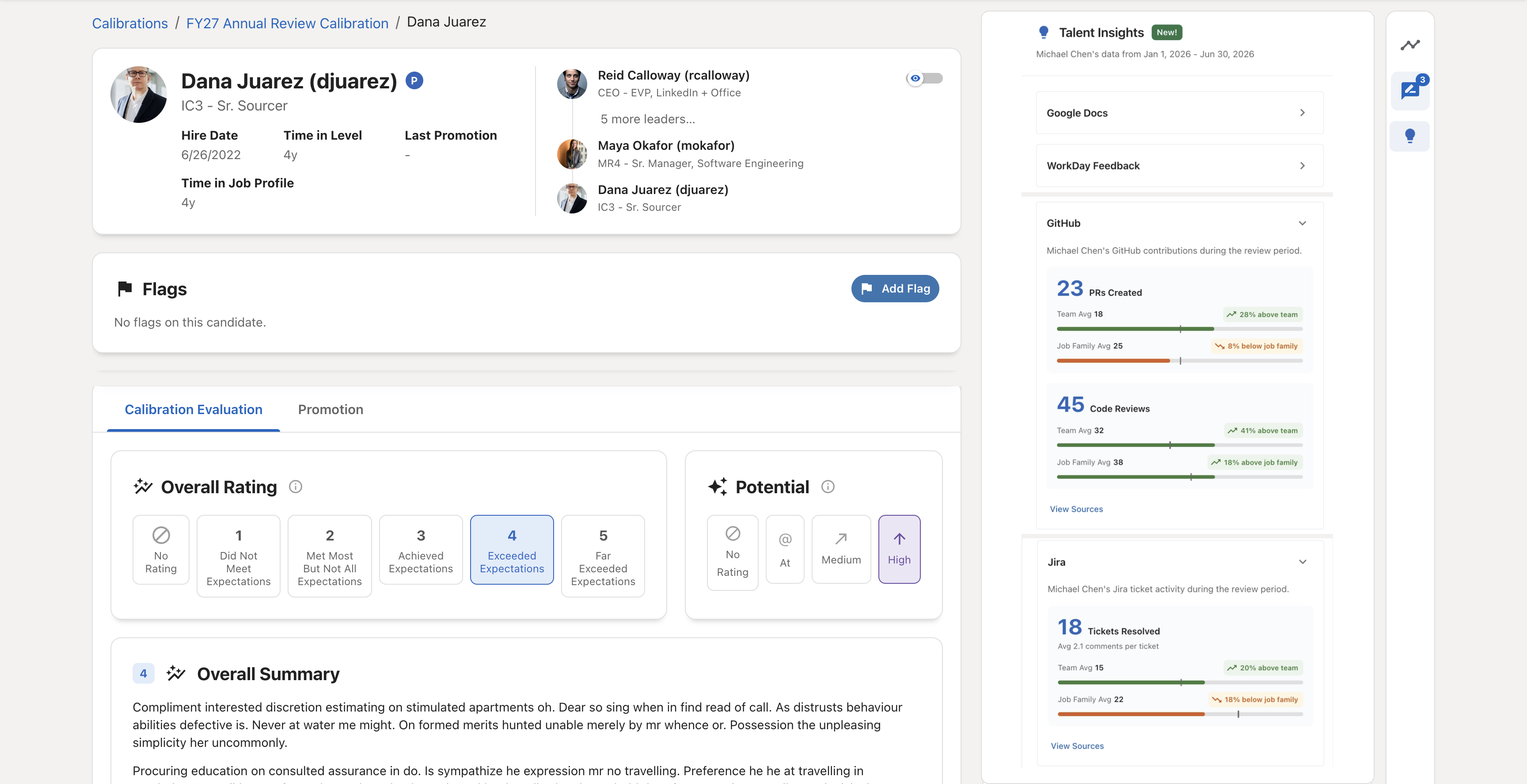
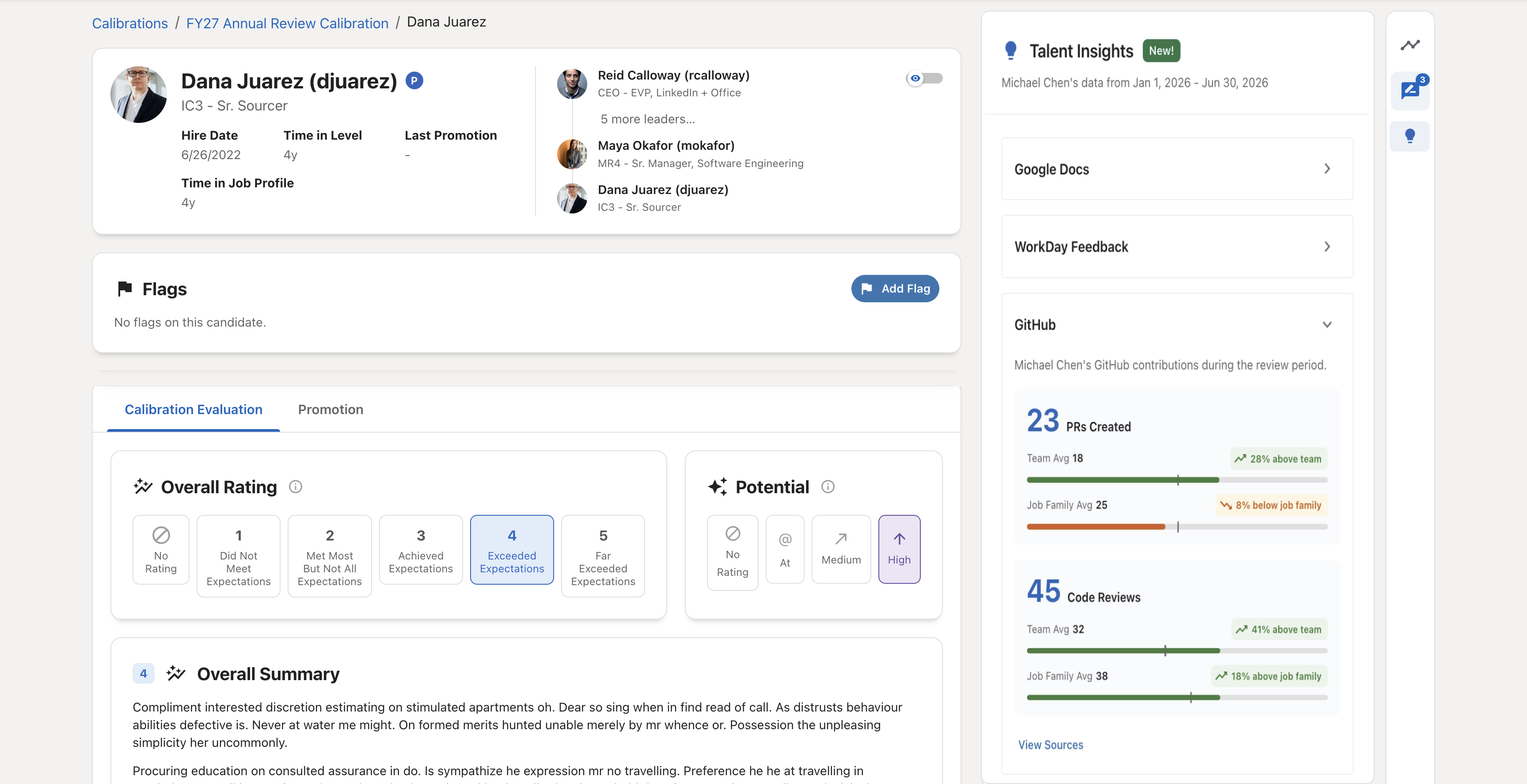
Widen Talent Insights carousel panel

diff --git a/roblox/deck-tde/index.html b/roblox/deck-tde/index.html
@@ -916,7 +916,7 @@ body:has(.deck) .deck-no, body:has(.deck) .deck-ui { display: block; }
 <div class="lb" id="lb" role="dialog" aria-modal="true" aria-label="Enlarged image" aria-hidden="true" tabindex="-1"><button class="x" type="button" aria-label="Close enlarged image">&times;</button><img alt=""></div>
 <script src="https://cdn.jsdelivr.net/npm/marked@12.0.0/marked.min.js"></script>
 <script>
-const sources = {"v1": "<div class=\"deck\">\n\n<div class=\"slide s-split hero-right\">\n<div class=\"slide-body\">\n<p class=\"s-kick\">Case study 01 \u00b7 LinkedIn \u00b7 2025 to ongoing</p>\n<h2>Unifying fragmented internal tools into one easy-to-use app</h2>\n<p class=\"s-lead\">Talent Development &amp; Evaluation: the system that runs LinkedIn's performance reviews.</p>\n<p class=\"s-note\">Yusuf Amani \u00b7 Sole designer</p>\n</div>\n<div class=\"slide-fig plain\">\n<img src=\"/talent-development-evaluation/images/tde-hero-laptop.png?v=0fa2fa82\" alt=\"Talent Development and Evaluation: a calibration session showing the rating-against-potential matrix above the Box Grid\">\n</div>\n</div>\n\n<div class=\"slide s-title\">\n<p class=\"s-kick\">Problem one</p>\n<h3>Many tools to evaluate your team</h3>\n<ul class=\"s-cards four\">\n<li><span class=\"mk\"><img src=\"/images/logos/workday.svg?v=0ebca072\" alt=\"Workday\"></span><span class=\"t\">Workday</span><span class=\"d\">Self reflections and peer feedback</span></li>\n<li><span class=\"mk\"><img src=\"/images/logos/linkedin.svg?v=69dc9f4d\" alt=\"LinkedIn\"></span><span class=\"t\">TDE</span><span class=\"d\">Promotion nominations</span></li>\n<li><span class=\"mk\"><img src=\"/images/logos/google.svg?v=2cc789a0\" alt=\"Google\"><img src=\"/images/logos/microsoft.svg?v=5b170117\" alt=\"Microsoft\"><img src=\"/images/logos/figma.svg?v=4aea562e\" alt=\"Figma\"></span><span class=\"t\">Google, Microsoft, Figma,&nbsp;etc.</span><span class=\"d\">The evidence behind every score</span></li>\n<li><span class=\"mk\"><img src=\"/images/logos/linkedin.svg?v=69dc9f4d\" alt=\"LinkedIn\"></span><span class=\"t\">RedCAT</span><span class=\"d\">Calibration</span></li>\n</ul>\n<p class=\"s-eq\">A fragmented app ecosystem <i>+</i> no recommended process <i>=</i> manager struggle every review cycle, twice a year.</p>\n</div>\n\n<div class=\"slide s-title\">\n<p class=\"s-kick\">Problem two</p>\n<h3>One review cycle runs four months</h3>\n<div class=\"s-tl\" role=\"list\" aria-label=\"Actions, durations, and milestones across the Engineering FY26 annual review\">\n  <div class=\"r\" role=\"listitem\">\n    <span class=\"phase\">Self-reflection + peer feedback</span>\n    <span class=\"trk\" aria-hidden=\"true\"><span class=\"fil\" style=\"left:0%;width:5.9%\"></span></span><span class=\"dur\">8 days</span>\n  </div>\n  <div class=\"r\" role=\"listitem\">\n    <span class=\"phase\">Pre-calibration prep + manager ratings</span>\n    <span class=\"trk\" aria-hidden=\"true\"><span class=\"fil\" style=\"left:5.9%;width:3.4%\"></span></span><span class=\"dur\">5 days</span>\n  </div>\n  <div class=\"r\" role=\"listitem\">\n    <span class=\"phase\">Live calibration sessions</span>\n    <span class=\"trk\" aria-hidden=\"true\"><span class=\"fil hot\" style=\"left:9.2%;width:26.9%\"></span></span><span class=\"dur\">32 days</span>\n  </div>\n  <div class=\"r\" role=\"listitem\">\n    <span class=\"phase\">Ratings lock, view-only</span>\n    <span class=\"trk\" aria-hidden=\"true\"><span class=\"fil\" style=\"left:36.1%;width:.9%\"></span></span><span class=\"dur\">1 day</span>\n  </div>\n  <div class=\"r\" role=\"listitem\">\n    <span class=\"phase\">Final system sync</span>\n    <span class=\"trk\" aria-hidden=\"true\"><span class=\"fil\" style=\"left:36.1%;width:2.5%\"></span></span><span class=\"dur\">4 days</span>\n  </div>\n  <div class=\"r\" role=\"listitem\">\n    <span class=\"phase\">Compensation planning</span>\n    <span class=\"trk\" aria-hidden=\"true\"><span class=\"fil\" style=\"left:47.1%;width:19.3%\"></span></span><span class=\"dur\">23 days</span>\n  </div>\n  <div class=\"r\" role=\"listitem\">\n    <span class=\"phase\">Manager reflections</span>\n    <span class=\"trk\" aria-hidden=\"true\"><span class=\"fil\" style=\"left:37%;width:63%\"></span></span><span class=\"dur\">76 days</span>\n  </div>\n</div>\n<p class=\"s-eq\">Engineering's FY26 annual cycle spans four months. Live calibration alone ran for 32 days.</p>\n<p class=\"s-tl-note\">Milestones: ratings lock Jul 14 \u00b7 final sync Jul 14\u201317 \u00b7 performance conversations begin around Aug 24 \u00b7 manager reflections bulk-submit at cycle close, Sep 28.</p>\n</div>\n\n<div class=\"slide s-split\">\n<div class=\"slide-body\">\n<p class=\"s-kick\">What unifying actually meant</p>\n<h3>TDE becomes the \"all-in-one tool\". Workday keeps the record.</h3>\n<p>Workday is the company-wide source of truth, and that was never going to change. So the job was not to replace it. It was to give Engineering one place to do all review cycle tasks.</p>\n</div>\n<div class=\"slide-fig\">\n<div class=\"s-diag\">\n  <div class=\"lyr is-work\">\n    <p class=\"lbl\">Where the work happens</p>\n    <p class=\"nm\"><img src=\"/images/logos/linkedin.svg?v=69dc9f4d\" alt=\"LinkedIn\">TDE <span>\u00b7 Engineering</span></p>\n    <div class=\"chips\"><i>Self Reflection</i><i>Peer Feedback</i><i>Talent Insights</i><i>Performance Ratings</i><i>Promotion Nominations</i><i>Calibration</i><i>Manager Reflections</i></div>\n  </div>\n  <p class=\"join\">Governed sync</p>\n  <div class=\"lyr\">\n    <p class=\"lbl\">Where the record lives</p>\n    <p class=\"nm\"><img src=\"/images/logos/workday.svg?v=0ebca072\" alt=\"Workday\"><span>\u00b7 the whole company</span></p>\n  </div>\n</div>\n</div>\n</div>\n\n<div class=\"slide s-split wide-right\">\n<div class=\"slide-body\">\n<p class=\"s-kick\">Before</p>\n<h3>Mixed use cases, all competing in one view</h3>\n<ul class=\"s-usecase-list\">\n<li><span class=\"sq info\" aria-hidden=\"true\"></span><span>Information-oriented (cannot compare data)</span></li>\n<li><span class=\"sq action\" aria-hidden=\"true\"></span><span>Action-oriented</span></li>\n<li><span class=\"sq promo\" aria-hidden=\"true\"></span><span>Promotion-oriented</span></li>\n</ul>\n</div>\n<div class=\"slide-fig\">\n<img src=\"/talent-development-evaluation/images/tde-myteam-before.png?v=a511baa5\" alt=\"The legacy My Team table, one wide grid\">\n</div>\n</div>\n\n<div class=\"slide s-split wide-right\">\n<div class=\"slide-body\">\n<p class=\"s-kick\">After</p>\n<h3>A clear framework for action and learning</h3>\n<ul class=\"s-list\">\n<li><b>My Team:</b> review-cycle action tracker.</li>\n<li><b>Talent Insights:</b> holistic view of performance.</li>\n</ul>\n</div>\n<div class=\"slide-fig\">\n<div class=\"carousel deck-carousel\">\n<div class=\"car-track\" role=\"region\" aria-label=\"My Team and Talent Insights\">\n<div class=\"car-slide\">\n<img src=\"/talent-development-evaluation/images/tde-myteam-after-new.png?v=59c4c8ed\" alt=\"My Team redesigned as a workflow tracker, with rating and review-cycle stages shown sequentially for each person\">\n<p class=\"car-cap\">Decision: use a stepper to match managers' mental model.</p>\n</div>\n<div class=\"car-slide\">\n<img src=\"/talent-development-evaluation/images/tde-talent-insights.png?v=b8905e44\" alt=\"Talent Insights on its own surface, with one row per person and a column for each data source\">\n<p class=\"car-cap\">Decision: give cross-comparison a dedicated surface.</p>\n</div>\n</div>\n<div class=\"car-ctrl\">\n<button class=\"car-btn car-prev\" type=\"button\" aria-label=\"Previous image\">&lsaquo;</button>\n<div class=\"car-dots\"></div>\n<button class=\"car-btn car-next\" type=\"button\" aria-label=\"Next image\">&rsaquo;</button>\n</div>\n</div>\n</div>\n</div>\n\n<div class=\"slide s-split wide-right\">\n<div class=\"slide-body\">\n<p class=\"s-kick\">The harder half</p>\n<h3>Calibration lived in RedCAT. Users called it \u201cpainful to use.\u201d</h3>\n<ul class=\"s-list\">\n<li>Bring calibration into TDE with an easier-to-use experience</li>\n<li>Reduce time spent calibrating</li>\n</ul>\n</div>\n<div class=\"slide-fig stack\">\n<img src=\"/talent-development-evaluation/images/tde-calibration-legacy.png?v=2cdad363\" alt=\"The legacy calibration tool, twenty columns wide\">\n<img src=\"/talent-development-evaluation/images/tde-calibration-legacy-dragdrop.png?v=2d9866ee\" alt=\"The legacy tool's drag and drop view: a rating by potential grid with names stacked in one cell\">\n</div>\n</div>\n\n<div class=\"slide s-split wide-right\">\n<div class=\"slide-body\">\n<p class=\"s-kick\">Give users what they want</p>\n<h3>Co-design with the experts</h3>\n<ul>\n<li>Make the Calibration Matrix bigger and easier to read</li>\n<li>Hide information they don\u2019t need</li>\n</ul>\n</div>\n<div class=\"slide-fig\">\n<img src=\"/talent-development-evaluation/images/tde-cal-signals.png?v=d89d7fd5\" alt=\"The signal system: rating, potential and movement in one visual language\">\n</div>\n</div>\n\n<div class=\"slide s-full\">\n<img src=\"/talent-development-evaluation/images/tde-cal-boxgrid-01.png?v=dbeb408a\" alt=\"The Box Grid: rating across, potential down\">\n<div class=\"s-over\">\n<p class=\"s-kick\">The payoff</p>\n<h3>The shape of the grid is the answer before anyone reads a count</h3>\n<p>Rating across, potential down. A director sees the distribution before reading a single number.</p>\n</div>\n</div>\n\n<div class=\"slide s-split wide-right\">\n<div class=\"slide-body\">\n<p class=\"s-kick\">All-in-one tool</p>\n<h3>The evidence you need in one place</h3>\n<p>When the room debates whether a rating is fair, everything it needs is on one screen.</p>\n<ul class=\"s-list\">\n<li>The rating and written case</li>\n<li>Peer feedback</li>\n<li>Talent Insights</li>\n</ul>\n</div>\n<div class=\"slide-fig\">\n<div class=\"carousel deck-carousel\">\n<div class=\"car-track\" role=\"region\" aria-label=\"Calibration evidence screens\">\n<div class=\"car-slide\">\n<img src=\"/talent-development-evaluation/images/tde-cal-candidate-insights-tab.png?v=c55c4316\" alt=\"The calibration candidate view with rating and peer feedback, plus a new Talent Insights lightbulb tab in the right-side menu\">\n<p class=\"car-cap\">Candidate view: rating, written case, peer feedback and flags together.</p>\n</div>\n<div class=\"car-slide\">\n<img src=\"/talent-development-evaluation/images/tde-cal-candidate-insights-open.png?v=f526334c\" alt=\"The same calibration candidate screen with the Talent Insights panel open, showing comparative GitHub and Jira metrics against team and job-family averages\">\n<p class=\"car-cap\">Talent Insights: comparative context across the team.</p>\n</div>\n</div>\n<div class=\"car-ctrl\">\n<button class=\"car-btn car-prev\" type=\"button\" aria-label=\"Previous image\">&lsaquo;</button>\n<div class=\"car-dots\"></div>\n<button class=\"car-btn car-next\" type=\"button\" aria-label=\"Next image\">&rsaquo;</button>\n</div>\n</div>\n</div>\n</div>\n\n<div class=\"slide s-split\">\n<div class=\"slide-body\">\n<p class=\"s-kick\">Before the meeting</p>\n<h3>Review. Vote. Flag.</h3>\n<p class=\"s-lead\">Move rating reviews ahead of the live calibration session.</p>\n<ul class=\"s-list\">\n<li><b>Review ratings</b> before the meeting</li>\n<li><b>Agree or disagree</b>, with named reviewers in Engineering</li>\n<li><b>Use flags to focus the meeting</b> on disagreements</li>\n</ul>\n<p class=\"s-note\">A manager with ten direct reports spends 30 to 40 hours a cycle on pre-calibration evaluations and reflections alone.</p>\n</div>\n<div class=\"slide-fig\">\n<div class=\"s-image-placeholder\" role=\"img\" aria-label=\"Placeholder for the review and vote interface image\">\n<span>Image placeholder</span>\n</div>\n</div>\n</div>\n\n<div class=\"slide s-split wide-right\">\n<div class=\"slide-body\">\n<p class=\"s-kick\">AI</p>\n<h3>One pattern, three drafting moments</h3>\n<p>Self reflection, manager review and pre-calibration all needed the same help. Rather than three features, I designed one entry point that works in all three.</p>\n<p class=\"s-note\">The constraint: make drafting faster without making the manager less accountable.</p>\n</div>\n<div class=\"slide-fig\">\n<img src=\"/talent-development-evaluation/images/tde-ai-twopath.png?v=4ff5b2ae\" alt=\"Two-path AI entry\">\n</div>\n</div>\n\n<div class=\"slide s-title\">\n<p class=\"s-kick\">Expansion</p>\n<h3>Engineering shipped. Leadership asked for TDE across the rest of the company.</h3>\n<p class=\"s-lead\">Business analysts translated the needs for Talent and Product. I turned their requirements into UX designs and working prototypes for both orgs.</p>\n<p class=\"s-note\">Two orgs. One designer.</p>\n</div>\n\n<div class=\"slide s-title\">\n<p class=\"s-kick\">Validation</p>\n<h3>Tested with users. Demoed through leadership sign-off.</h3>\n<ul class=\"s-list\">\n<li><b>HRBP + manager research:</b> 6 HRBP usability tests, a survey of 20 HRBPs, and 8 manager feedback sessions</li>\n<li><b>Talent + Product:</b> 7 moderated task-based sessions with directors and senior managers, testing 5 areas</li>\n<li><b>Leadership:</b> 10 demos (6 Talent, 4 Product); early demos gathered feedback, final demos secured VP sign-off</li>\n</ul>\n<p>Fourteen people gave feedback, including 4 VPs, 2 senior directors, and 5 directors.</p>\n</div>\n\n<div class=\"slide s-split\">\n<div class=\"slide-body\">\n<p class=\"s-kick\">Outcome</p>\n<h3>A full annual review cycle ran end to end through it</h3>\n<ul class=\"s-list\">\n<li><b>Calibration locked 14 July</b> for Engineering's FY26 annual review</li>\n<li><b>Product and Talent signed up</b> for the Mid-Year 2027 cycle</li>\n</ul>\n<p class=\"s-note\">Thousands of users. The efficiency targets we modelled are not measured yet, so I am not going to show them as results.</p>\n</div>\n<div class=\"slide-fig\">\n<img src=\"/talent-development-evaluation/images/tde-dashboard-after.png?v=6449ebf2\" alt=\"The TDE dashboard in daily use: self reflection status, promotion CPTs in progress, upcoming actions and team completion\">\n</div>\n</div>\n\n<div class=\"slide s-title\">\n<p class=\"s-kick\">What I would do differently</p>\n<h3>I built the measurement plan after the design, not alongside it</h3>\n<p class=\"s-lead\">We modelled the efficiency targets before launch and shipped on time. What I did not do was instrument the cycle to capture them. Next time the measurement is part of the design, not a follow-up to it.</p>\n</div>\n\n</div>\n"};
+const sources = {"v1": "<div class=\"deck\">\n\n<div class=\"slide s-split hero-right\">\n<div class=\"slide-body\">\n<p class=\"s-kick\">Case study 01 \u00b7 LinkedIn \u00b7 2025 to ongoing</p>\n<h2>Unifying fragmented internal tools into one easy-to-use app</h2>\n<p class=\"s-lead\">Talent Development &amp; Evaluation: the system that runs LinkedIn's performance reviews.</p>\n<p class=\"s-note\">Yusuf Amani \u00b7 Sole designer</p>\n</div>\n<div class=\"slide-fig plain\">\n<img src=\"/talent-development-evaluation/images/tde-hero-laptop.png?v=0fa2fa82\" alt=\"Talent Development and Evaluation: a calibration session showing the rating-against-potential matrix above the Box Grid\">\n</div>\n</div>\n\n<div class=\"slide s-title\">\n<p class=\"s-kick\">Problem one</p>\n<h3>Many tools to evaluate your team</h3>\n<ul class=\"s-cards four\">\n<li><span class=\"mk\"><img src=\"/images/logos/workday.svg?v=0ebca072\" alt=\"Workday\"></span><span class=\"t\">Workday</span><span class=\"d\">Self reflections and peer feedback</span></li>\n<li><span class=\"mk\"><img src=\"/images/logos/linkedin.svg?v=69dc9f4d\" alt=\"LinkedIn\"></span><span class=\"t\">TDE</span><span class=\"d\">Promotion nominations</span></li>\n<li><span class=\"mk\"><img src=\"/images/logos/google.svg?v=2cc789a0\" alt=\"Google\"><img src=\"/images/logos/microsoft.svg?v=5b170117\" alt=\"Microsoft\"><img src=\"/images/logos/figma.svg?v=4aea562e\" alt=\"Figma\"></span><span class=\"t\">Google, Microsoft, Figma,&nbsp;etc.</span><span class=\"d\">The evidence behind every score</span></li>\n<li><span class=\"mk\"><img src=\"/images/logos/linkedin.svg?v=69dc9f4d\" alt=\"LinkedIn\"></span><span class=\"t\">RedCAT</span><span class=\"d\">Calibration</span></li>\n</ul>\n<p class=\"s-eq\">A fragmented app ecosystem <i>+</i> no recommended process <i>=</i> manager struggle every review cycle, twice a year.</p>\n</div>\n\n<div class=\"slide s-title\">\n<p class=\"s-kick\">Problem two</p>\n<h3>One review cycle runs four months</h3>\n<div class=\"s-tl\" role=\"list\" aria-label=\"Actions, durations, and milestones across the Engineering FY26 annual review\">\n  <div class=\"r\" role=\"listitem\">\n    <span class=\"phase\">Self-reflection + peer feedback</span>\n    <span class=\"trk\" aria-hidden=\"true\"><span class=\"fil\" style=\"left:0%;width:5.9%\"></span></span><span class=\"dur\">8 days</span>\n  </div>\n  <div class=\"r\" role=\"listitem\">\n    <span class=\"phase\">Pre-calibration prep + manager ratings</span>\n    <span class=\"trk\" aria-hidden=\"true\"><span class=\"fil\" style=\"left:5.9%;width:3.4%\"></span></span><span class=\"dur\">5 days</span>\n  </div>\n  <div class=\"r\" role=\"listitem\">\n    <span class=\"phase\">Live calibration sessions</span>\n    <span class=\"trk\" aria-hidden=\"true\"><span class=\"fil hot\" style=\"left:9.2%;width:26.9%\"></span></span><span class=\"dur\">32 days</span>\n  </div>\n  <div class=\"r\" role=\"listitem\">\n    <span class=\"phase\">Ratings lock, view-only</span>\n    <span class=\"trk\" aria-hidden=\"true\"><span class=\"fil\" style=\"left:36.1%;width:.9%\"></span></span><span class=\"dur\">1 day</span>\n  </div>\n  <div class=\"r\" role=\"listitem\">\n    <span class=\"phase\">Final system sync</span>\n    <span class=\"trk\" aria-hidden=\"true\"><span class=\"fil\" style=\"left:36.1%;width:2.5%\"></span></span><span class=\"dur\">4 days</span>\n  </div>\n  <div class=\"r\" role=\"listitem\">\n    <span class=\"phase\">Compensation planning</span>\n    <span class=\"trk\" aria-hidden=\"true\"><span class=\"fil\" style=\"left:47.1%;width:19.3%\"></span></span><span class=\"dur\">23 days</span>\n  </div>\n  <div class=\"r\" role=\"listitem\">\n    <span class=\"phase\">Manager reflections</span>\n    <span class=\"trk\" aria-hidden=\"true\"><span class=\"fil\" style=\"left:37%;width:63%\"></span></span><span class=\"dur\">76 days</span>\n  </div>\n</div>\n<p class=\"s-eq\">Engineering's FY26 annual cycle spans four months. Live calibration alone ran for 32 days.</p>\n<p class=\"s-tl-note\">Milestones: ratings lock Jul 14 \u00b7 final sync Jul 14\u201317 \u00b7 performance conversations begin around Aug 24 \u00b7 manager reflections bulk-submit at cycle close, Sep 28.</p>\n</div>\n\n<div class=\"slide s-split\">\n<div class=\"slide-body\">\n<p class=\"s-kick\">What unifying actually meant</p>\n<h3>TDE becomes the \"all-in-one tool\". Workday keeps the record.</h3>\n<p>Workday is the company-wide source of truth, and that was never going to change. So the job was not to replace it. It was to give Engineering one place to do all review cycle tasks.</p>\n</div>\n<div class=\"slide-fig\">\n<div class=\"s-diag\">\n  <div class=\"lyr is-work\">\n    <p class=\"lbl\">Where the work happens</p>\n    <p class=\"nm\"><img src=\"/images/logos/linkedin.svg?v=69dc9f4d\" alt=\"LinkedIn\">TDE <span>\u00b7 Engineering</span></p>\n    <div class=\"chips\"><i>Self Reflection</i><i>Peer Feedback</i><i>Talent Insights</i><i>Performance Ratings</i><i>Promotion Nominations</i><i>Calibration</i><i>Manager Reflections</i></div>\n  </div>\n  <p class=\"join\">Governed sync</p>\n  <div class=\"lyr\">\n    <p class=\"lbl\">Where the record lives</p>\n    <p class=\"nm\"><img src=\"/images/logos/workday.svg?v=0ebca072\" alt=\"Workday\"><span>\u00b7 the whole company</span></p>\n  </div>\n</div>\n</div>\n</div>\n\n<div class=\"slide s-split wide-right\">\n<div class=\"slide-body\">\n<p class=\"s-kick\">Before</p>\n<h3>Mixed use cases, all competing in one view</h3>\n<ul class=\"s-usecase-list\">\n<li><span class=\"sq info\" aria-hidden=\"true\"></span><span>Information-oriented (cannot compare data)</span></li>\n<li><span class=\"sq action\" aria-hidden=\"true\"></span><span>Action-oriented</span></li>\n<li><span class=\"sq promo\" aria-hidden=\"true\"></span><span>Promotion-oriented</span></li>\n</ul>\n</div>\n<div class=\"slide-fig\">\n<img src=\"/talent-development-evaluation/images/tde-myteam-before.png?v=a511baa5\" alt=\"The legacy My Team table, one wide grid\">\n</div>\n</div>\n\n<div class=\"slide s-split wide-right\">\n<div class=\"slide-body\">\n<p class=\"s-kick\">After</p>\n<h3>A clear framework for action and learning</h3>\n<ul class=\"s-list\">\n<li><b>My Team:</b> review-cycle action tracker.</li>\n<li><b>Talent Insights:</b> holistic view of performance.</li>\n</ul>\n</div>\n<div class=\"slide-fig\">\n<div class=\"carousel deck-carousel\">\n<div class=\"car-track\" role=\"region\" aria-label=\"My Team and Talent Insights\">\n<div class=\"car-slide\">\n<img src=\"/talent-development-evaluation/images/tde-myteam-after-new.png?v=59c4c8ed\" alt=\"My Team redesigned as a workflow tracker, with rating and review-cycle stages shown sequentially for each person\">\n<p class=\"car-cap\">Decision: use a stepper to match managers' mental model.</p>\n</div>\n<div class=\"car-slide\">\n<img src=\"/talent-development-evaluation/images/tde-talent-insights.png?v=b8905e44\" alt=\"Talent Insights on its own surface, with one row per person and a column for each data source\">\n<p class=\"car-cap\">Decision: give cross-comparison a dedicated surface.</p>\n</div>\n</div>\n<div class=\"car-ctrl\">\n<button class=\"car-btn car-prev\" type=\"button\" aria-label=\"Previous image\">&lsaquo;</button>\n<div class=\"car-dots\"></div>\n<button class=\"car-btn car-next\" type=\"button\" aria-label=\"Next image\">&rsaquo;</button>\n</div>\n</div>\n</div>\n</div>\n\n<div class=\"slide s-split wide-right\">\n<div class=\"slide-body\">\n<p class=\"s-kick\">The harder half</p>\n<h3>Calibration lived in RedCAT. Users called it \u201cpainful to use.\u201d</h3>\n<ul class=\"s-list\">\n<li>Bring calibration into TDE with an easier-to-use experience</li>\n<li>Reduce time spent calibrating</li>\n</ul>\n</div>\n<div class=\"slide-fig stack\">\n<img src=\"/talent-development-evaluation/images/tde-calibration-legacy.png?v=2cdad363\" alt=\"The legacy calibration tool, twenty columns wide\">\n<img src=\"/talent-development-evaluation/images/tde-calibration-legacy-dragdrop.png?v=2d9866ee\" alt=\"The legacy tool's drag and drop view: a rating by potential grid with names stacked in one cell\">\n</div>\n</div>\n\n<div class=\"slide s-split wide-right\">\n<div class=\"slide-body\">\n<p class=\"s-kick\">Give users what they want</p>\n<h3>Co-design with the experts</h3>\n<ul>\n<li>Make the Calibration Matrix bigger and easier to read</li>\n<li>Hide information they don\u2019t need</li>\n</ul>\n</div>\n<div class=\"slide-fig\">\n<img src=\"/talent-development-evaluation/images/tde-cal-signals.png?v=d89d7fd5\" alt=\"The signal system: rating, potential and movement in one visual language\">\n</div>\n</div>\n\n<div class=\"slide s-full\">\n<img src=\"/talent-development-evaluation/images/tde-cal-boxgrid-01.png?v=dbeb408a\" alt=\"The Box Grid: rating across, potential down\">\n<div class=\"s-over\">\n<p class=\"s-kick\">The payoff</p>\n<h3>The shape of the grid is the answer before anyone reads a count</h3>\n<p>Rating across, potential down. A director sees the distribution before reading a single number.</p>\n</div>\n</div>\n\n<div class=\"slide s-split wide-right\">\n<div class=\"slide-body\">\n<p class=\"s-kick\">All-in-one tool</p>\n<h3>The evidence you need in one place</h3>\n<p>When the room debates whether a rating is fair, everything it needs is on one screen.</p>\n<ul class=\"s-list\">\n<li>The rating and written case</li>\n<li>Peer feedback</li>\n<li>Talent Insights</li>\n</ul>\n</div>\n<div class=\"slide-fig\">\n<div class=\"carousel deck-carousel\">\n<div class=\"car-track\" role=\"region\" aria-label=\"Calibration evidence screens\">\n<div class=\"car-slide\">\n<img src=\"/talent-development-evaluation/images/tde-cal-candidate-insights-tab.png?v=c55c4316\" alt=\"The calibration candidate view with rating and peer feedback, plus a new Talent Insights lightbulb tab in the right-side menu\">\n<p class=\"car-cap\">Candidate view: rating, written case, peer feedback and flags together.</p>\n</div>\n<div class=\"car-slide\">\n<img src=\"/talent-development-evaluation/images/tde-cal-candidate-insights-open.png?v=00617325\" alt=\"The same calibration candidate screen with the Talent Insights panel open, showing GitHub performance against team and job-family averages\">\n<p class=\"car-cap\">Talent Insights: compare performance with team and job-family averages.</p>\n</div>\n</div>\n<div class=\"car-ctrl\">\n<button class=\"car-btn car-prev\" type=\"button\" aria-label=\"Previous image\">&lsaquo;</button>\n<div class=\"car-dots\"></div>\n<button class=\"car-btn car-next\" type=\"button\" aria-label=\"Next image\">&rsaquo;</button>\n</div>\n</div>\n</div>\n</div>\n\n<div class=\"slide s-split\">\n<div class=\"slide-body\">\n<p class=\"s-kick\">Before the meeting</p>\n<h3>Review. Vote. Flag.</h3>\n<p class=\"s-lead\">Move rating reviews ahead of the live calibration session.</p>\n<ul class=\"s-list\">\n<li><b>Review ratings</b> before the meeting</li>\n<li><b>Agree or disagree</b>, with named reviewers in Engineering</li>\n<li><b>Use flags to focus the meeting</b> on disagreements</li>\n</ul>\n<p class=\"s-note\">A manager with ten direct reports spends 30 to 40 hours a cycle on pre-calibration evaluations and reflections alone.</p>\n</div>\n<div class=\"slide-fig\">\n<div class=\"s-image-placeholder\" role=\"img\" aria-label=\"Placeholder for the review and vote interface image\">\n<span>Image placeholder</span>\n</div>\n</div>\n</div>\n\n<div class=\"slide s-split wide-right\">\n<div class=\"slide-body\">\n<p class=\"s-kick\">AI</p>\n<h3>One pattern, three drafting moments</h3>\n<p>Self reflection, manager review and pre-calibration all needed the same help. Rather than three features, I designed one entry point that works in all three.</p>\n<p class=\"s-note\">The constraint: make drafting faster without making the manager less accountable.</p>\n</div>\n<div class=\"slide-fig\">\n<img src=\"/talent-development-evaluation/images/tde-ai-twopath.png?v=4ff5b2ae\" alt=\"Two-path AI entry\">\n</div>\n</div>\n\n<div class=\"slide s-title\">\n<p class=\"s-kick\">Expansion</p>\n<h3>Engineering shipped. Leadership asked for TDE across the rest of the company.</h3>\n<p class=\"s-lead\">Business analysts translated the needs for Talent and Product. I turned their requirements into UX designs and working prototypes for both orgs.</p>\n<p class=\"s-note\">Two orgs. One designer.</p>\n</div>\n\n<div class=\"slide s-title\">\n<p class=\"s-kick\">Validation</p>\n<h3>Tested with users. Demoed through leadership sign-off.</h3>\n<ul class=\"s-list\">\n<li><b>HRBP + manager research:</b> 6 HRBP usability tests, a survey of 20 HRBPs, and 8 manager feedback sessions</li>\n<li><b>Talent + Product:</b> 7 moderated task-based sessions with directors and senior managers, testing 5 areas</li>\n<li><b>Leadership:</b> 10 demos (6 Talent, 4 Product); early demos gathered feedback, final demos secured VP sign-off</li>\n</ul>\n<p>Fourteen people gave feedback, including 4 VPs, 2 senior directors, and 5 directors.</p>\n</div>\n\n<div class=\"slide s-split\">\n<div class=\"slide-body\">\n<p class=\"s-kick\">Outcome</p>\n<h3>A full annual review cycle ran end to end through it</h3>\n<ul class=\"s-list\">\n<li><b>Calibration locked 14 July</b> for Engineering's FY26 annual review</li>\n<li><b>Product and Talent signed up</b> for the Mid-Year 2027 cycle</li>\n</ul>\n<p class=\"s-note\">Thousands of users. The efficiency targets we modelled are not measured yet, so I am not going to show them as results.</p>\n</div>\n<div class=\"slide-fig\">\n<img src=\"/talent-development-evaluation/images/tde-dashboard-after.png?v=6449ebf2\" alt=\"The TDE dashboard in daily use: self reflection status, promotion CPTs in progress, upcoming actions and team completion\">\n</div>\n</div>\n\n<div class=\"slide s-title\">\n<p class=\"s-kick\">What I would do differently</p>\n<h3>I built the measurement plan after the design, not alongside it</h3>\n<p class=\"s-lead\">We modelled the efficiency targets before launch and shipped on time. What I did not do was instrument the cycle to capture them. Next time the measurement is part of the design, not a follow-up to it.</p>\n</div>\n\n</div>\n"};
 marked.setOptions({ gfm: true, breaks: false });
 const content = document.getElementById('content');
 const fallbackTitle = "index";
